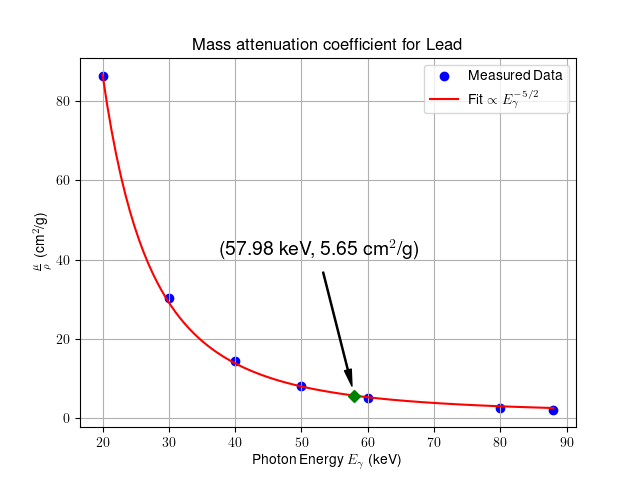
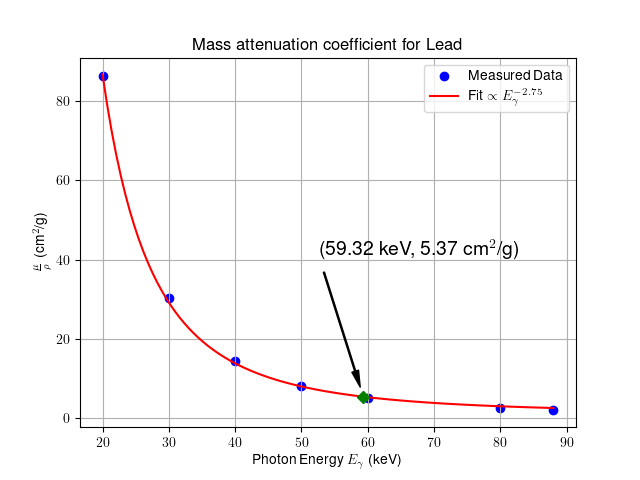
update

Changed region(s): [[0.3438, 0.5, 0.8125, 0.5625], [0.6562, 0.1875, 0.875, 0.25], [0.5, 0.5625, 0.5938, 0.8438]]

diff --git a/src/attenuation.py b/src/attenuation.py
@@ -64,7 +64,7 @@ def analyze_attenuation(data_file, output_image, photon_energy):
     fig.savefig("../plots/"+output_image)
     fig.show()
 
-energy = 120 # keV
-#energy_peak = 57.98 # keV
+#energy = 120 # keV
+energy_peak = 59.32 # keV
 #analyze_attenuation("attenuation_data.txt", "attenuation_plot.png", energy)
-analyze_attenuation("attenuation_data.txt", material + "_attenuation_data_plot.png", energy)
+analyze_attenuation("attenuation_peak.txt", material + "_attenuation_peak_plot.pdf", energy_peak)
